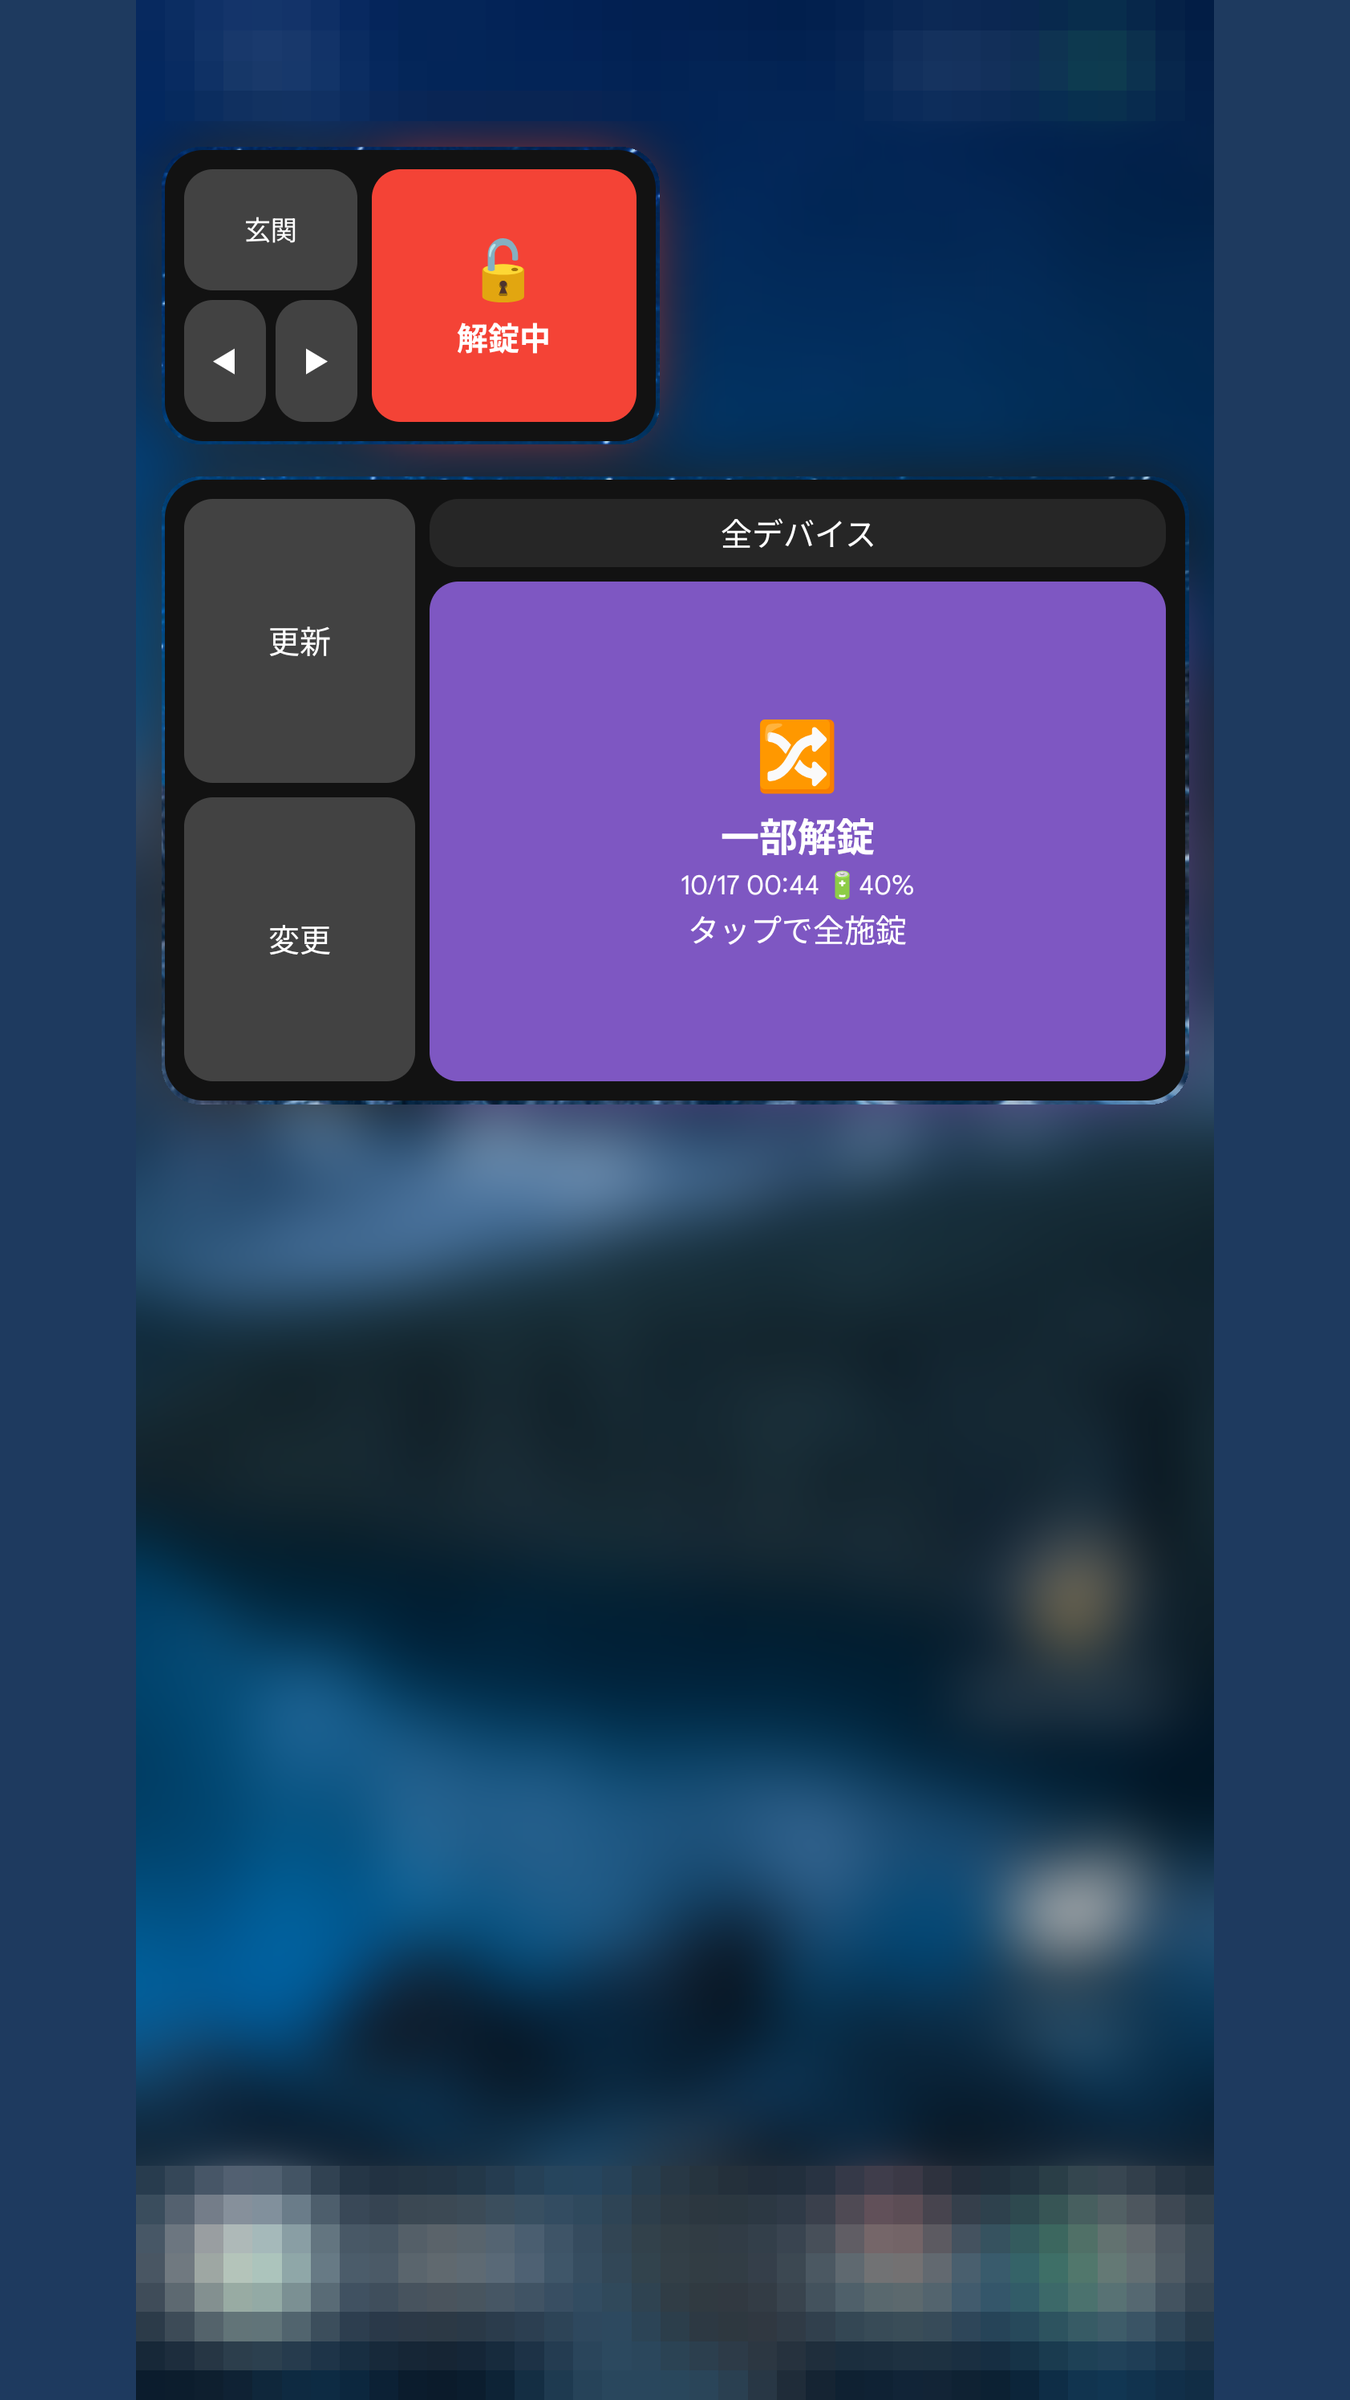
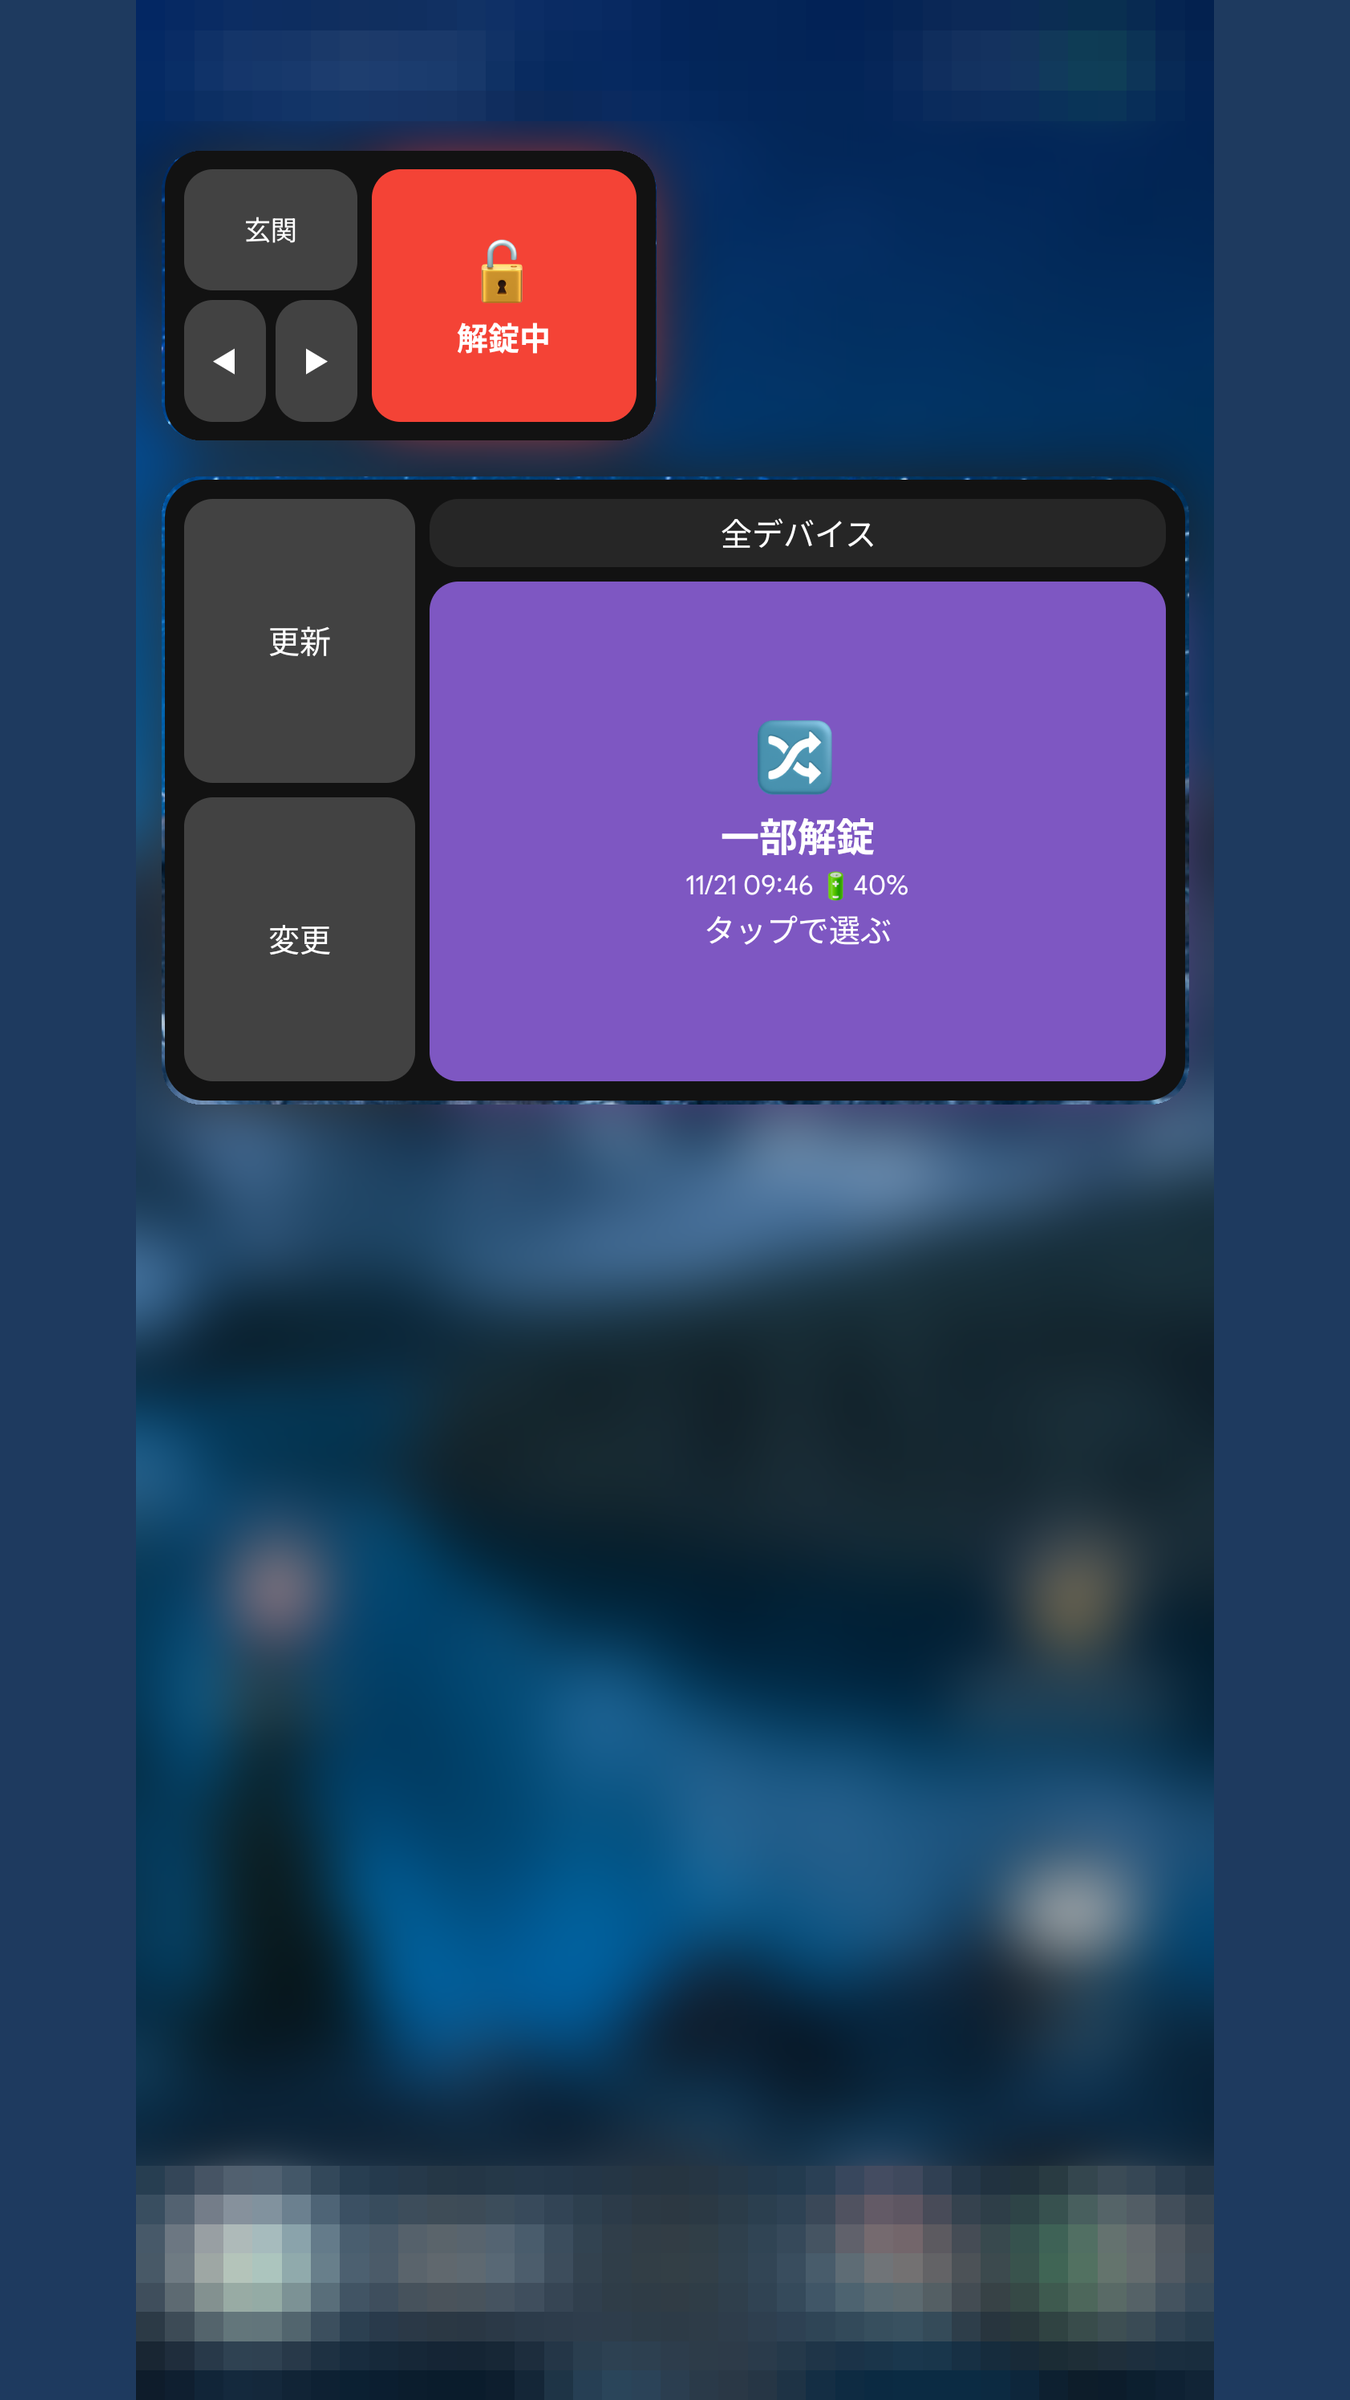
docs: 📝 ストア掲載画像を施錠・解錠を選ぶ画面に合わせて実機で撮り直す
BL-295で変わった画面に合わせ、Pixel 8 Pro / Pixel Watch 2実機（撮影モード）で
phone_1〜phone_4・wear_2・wear_4・wear_5を撮り直し、操作専用タイルの
wear_10_control_panelを追加した。説明文入りの画像とウィジェットのプレビュー画像を
作り直し、docs/storeの説明と旧称「解錠確認」を直した。Wear OS用は上限8枚に合わせて
wear_9_radar_allをPlay Consoleへ投入しない。

関連: BL-296

Claude-Session: https://claude.ai/code/session_01WnqNbZ6ebvCGnSnCY76eMN

diff --git a/scripts/caption-screenshots.py b/scripts/caption-screenshots.py
@@ -37,10 +37,10 @@ SIDE_MARGIN = 60
 
 # 半角空白は改行してよい位置。表示では空白で2行に分ける。
 CAPTIONS = {
-    "phone_1_widget_locked.png": "ホーム画面から すぐに施錠・解錠",
-    "phone_2_widget_unlock_confirm.png": "解錠は確認してから実行",
+    "phone_1_widget_locked.png": "ホーム画面から 施錠・解錠",
+    "phone_2_widget_unlock_confirm.png": "施錠か解錠かを 選んでから実行",
     "phone_3_widget_unlocked.png": "1台ずつ・全台まとめて 状態がひと目で分かる",
-    "phone_4_device_list.png": "セサミごとの状態と 電池を一覧で確認",
+    "phone_4_device_list.png": "セサミごとの状態を確認して アプリから施錠・解錠",
     "phone_5_menu.png": "操作の経路や通知を設定",
     "phone_6_radar.png": "Bluetoothの届き具合を レーダーで確認",
     "phone_7_radar_all.png": "全台の接続をまとめて確認",

diff --git a/docs/store/STORE_LISTING.md b/docs/store/STORE_LISTING.md
@@ -138,26 +138,27 @@ Markdownを解釈しないため、転記時は見出し・箇条書きの記法
 
 ## スクリーンショット
 
-スマートフォン用8枚とWear OS用8枚（上限に合わせ `wear_3_tile_unlocked` を外した欠番あり）を [images/screenshots/](images/screenshots/) に用意済みです。
+スマートフォン用8枚とWear OS用9枚（Play Consoleへ投入するのは8枚。上限に合わせ `wear_3_tile_unlocked` を外した欠番があり、
+`wear_9_radar_all` は投入しない）を [images/screenshots/](images/screenshots/) に用意済みです。
 内訳と加工内容は [README.md](README.md)「ファイル一覧」を参照してください。
 Play Consoleのスマートフォン用の枠へ投入するのは、機能の説明文を入れた
 [images/screenshots_captioned/](images/screenshots_captioned/) の8枚です（元画像の `images/screenshots/phone_*` は
 紹介ページとウィジェットのプレビュー画像の元として残します。説明文の一覧と作り直しは README.md「説明文入りの画像」）。
 
-- スマートフォン用: `phone_4_device_list` / `phone_5_menu` は0.16.0の表示で2026-11-08に撮り直し、
-  `phone_6_radar` / `phone_7_radar_all`（Bluetooth接続の確認）を追加しました（8枚上限のため旧 `phone_6` / `phone_7` と入れ替え。
-  BL-284）。残る4枚は0.14.3の表示です。
-- スマートフォン用: 撮影はいずれも0.14.3の表示でPixel 8 Pro実機（デバッグ版の撮影モード）を使って撮影しています
-  （2026-10-17。ステータスバーはモザイク、ホーム画面の3枚はドックもモザイクにし壁紙はぼかし）。
-  0.14.3でダイヤル操作の画面（`phone_8_dial.png`）を加えました。
-- Wear OS用: `wear_7_radar` / `wear_8_radar_connected` / `wear_9_radar_all`（接続確認）は0.16.0の表示で2026-11-08にPixel Watch 2実機で撮影しました。
-  タイル3枚とデバイス選択は0.14.0の表示でPixel Watch 2実機を使って撮影しています
-  （2026-09-25）。解錠確認は表示が変わっていないため据え置き、コンプリケーションは2026-09-06撮影の
+- スマートフォン用: `phone_1`〜`phone_4`（ウィジェット2枚・施錠・解錠を選ぶ画面・主画面）は0.17.0の表示で
+  2026-11-21にPixel 8 Pro実機で撮り直しました（BL-296）。`phone_5_menu` は0.16.0の表示（2026-11-08）、
+  `phone_6_radar` / `phone_7_radar_all`（Bluetooth接続の確認）は0.16.0の表示で2026-11-08に追加（BL-284）、
+  `phone_8_dial` は0.14.3の表示（2026-10-17）です。いずれもデバッグ版の撮影モードで撮り、ステータスバーはモザイク、
+  ホーム画面の3枚はドックもモザイクにし壁紙はぼかしています。
+- Wear OS用: タイル2枚（`wear_2` / `wear_4`）と施錠・解錠を選ぶ画面（`wear_5`）は0.17.0の表示で2026-11-21に
+  Pixel Watch 2実機で撮り直し、操作専用タイル「Sesami 操作パネル」（`wear_10_control_panel`）を追加しました（BL-296）。
+  `wear_7_radar` / `wear_8_radar_connected` / `wear_9_radar_all`（接続確認）は0.16.0の表示（2026-11-08）、
+  デバイス選択（`wear_6`）は0.14.0の表示（2026-09-25）、コンプリケーションは2026-09-06撮影の
   ままです（撮影時の文字盤が手元に無いため）。
 
 0.15.0ではウォッチのアプリの一覧・ウィジェットの配置画面の表示が加わりましたが、掲載画像は撮り直していません
 （既存の画像と矛盾せず、掲載文の機能説明で足りるため。必要になったら `store-screenshot-capture` で追加します）。
 
-**0.14.3の配信時に、Play Consoleのスマートフォン用の枠の画像を差し替えてください**
-（リポジトリの画像を更新しただけでは掲載は変わりません）。差し替えるのは `phone_1`〜`phone_8` の全8枚
-（`phone_8` は追加）です。Wear OS用の枠は変わりません。
+**0.17.0の配信時に、Play Consoleの画像を差し替えてください**
+（リポジトリの画像を更新しただけでは掲載は変わりません）。スマートフォン用の枠は説明文入りの `phone_1`〜`phone_4`、
+Wear OS用の枠は `wear_2` / `wear_4` / `wear_5` を差し替え、`wear_9_radar_all` を外して `wear_10_control_panel` を加えます。

diff --git a/docs/records/managed/BACKLOG.md b/docs/records/managed/BACKLOG.md
@@ -56,33 +56,6 @@
     `SesameActionCommandParser`）まで。画面の見え方・スワイプで戻る動作は実機でしか確かめられない。
   依存: []
 
-- id: BL-296
-  区分: 品質ゲート
-  タスク内容: >-
-    BL-295前半で文言・画面が変わったため、Google Playのストア掲載画像を撮り直す。対象は
-    `phone_4_device_list`（アプリ主画面のカードに「施錠」「解錠」ボタンが増えた。BL-295後半）、
-    `phone_2_widget_unlock_confirm`（スマホの解錠確認画面が、［キャンセル｜施錠｜解錠］の選ぶ画面になった）、
-    `wear_5_unlock_confirm`（ウォッチの確認画面が、施錠・解錠の2ボタンの選ぶ画面になった）、
-    `wear_4_tile_mixed`（一部解錠のタイルの操作文言が「タップで全施錠」から「タップで選ぶ」になった）。
-    施錠中・全施錠中のタイルやウィジェットの画像（`wear_2_tile_locked`、`phone_1_widget_locked`など）にも
-    「タップで解錠」「タップで全解錠」の文言が写っているため、あわせて確認する（`docs/store/README.md`の一覧）。
-    BL-298で追加した操作専用タイル（「Sesami 操作パネル」。実機の見え方はBL-297の確認後）の画像も追加する
-    （2台前後の状態で、上の「全施錠」「全解錠」と台ごとの行が写るもの。`docs/store/README.md`へ一覧を足す）。
-    撮影はこれまでどおり実機（Pixel 8 Pro / Pixel Watch 2）で行い（2026-11-21 ユーザー指示。エミュレータは使わない）、
-    スマホの画像は Skill `store-screenshot-masking` で加工する。`docs/store/README.md`の説明も追随させる。
-    撮り直しと同時に、旧称「解錠確認」「確認画面」が残る記述も選ぶ画面の呼び方へ直す（掲載文の変更は撮り直しと同時に行い、
-    それまでは本文を変えない）: `docs/store/README.md`の画像の説明（`phone_2_widget_unlock_confirm`・`wear_5_unlock_confirm`の
-    行）と`docs/store/STORE_LISTING.md`155行目付近の「解錠確認」。
-  優先度: P3
-  状態: 未着手
-  担当: AIエージェント
-  完了条件: >-
-    ストア掲載画像のうち、旧文言・旧画面が写るものが撮り直されていること。`docs/store/README.md`の説明が実際の画像と
-    合っていること。Play Consoleへの掲載画像の差し替えはユーザーが行う
-  根拠: >-
-    BL-295前半の変更で画像の内容が現行のアプリと食い違うため（ユーザー指示で撮影は今回しない）。
-  依存: []
-
 - id: BL-294
   区分: 人手検証
   タスク内容: >-

diff --git a/CHANGELOG.md b/CHANGELOG.md
@@ -7,6 +7,24 @@
 - コード修正1件ごとの実施記録: [docs/records/managed/EXECUTE.md](docs/records/managed/EXECUTE.md)
 - 本ファイル: 上記以外（運用ルール、ドキュメント構成、ガードレールの変更）
 
+## 2026-11-21（ストア掲載画像を施錠・解錠を選ぶ画面に合わせて撮り直し）
+
+施錠・解錠を選ぶ画面（BL-295）と主画面のカードのボタンで表示が変わったため、Google Playの掲載画像を
+Pixel 8 Pro / Pixel Watch 2実機（デバッグ版の撮影モード）で撮り直しました（BL-296。BACKLOGから削除）。
+
+- `docs/store/images/screenshots/`: `phone_1`〜`phone_4`、`wear_2` / `wear_4` / `wear_5` を撮り直し、
+  操作専用タイルの `wear_10_control_panel.png` を追加。スマートフォン用はステータスバーとドックをモザイクにし、
+  壁紙はぼかした（Skill `store-screenshot-masking`）
+- `docs/store/images/screenshots_captioned/`: `scripts/caption-screenshots.py` の説明文のうち `phone_1`
+  （「ホーム画面から 施錠・解錠」）・`phone_2`（「施錠か解錠かを 選んでから実行」）・`phone_4`
+  （「セサミごとの状態を確認して アプリから施錠・解錠」）を画面に合わせて直し、作り直した。
+  Wear OS用は2026-11-19の決定どおり説明文を入れない（2026-11-21にユーザーが再確認）
+- `mobile/src/main/res/drawable-nodpi/widget_preview*.png`: `phone_1` の差し替えに合わせて作り直した
+- `docs/store/README.md` / `docs/store/STORE_LISTING.md`: 画像の説明を実際の画像に合わせ、旧称「解錠確認」を
+  選ぶ画面の呼び方へ直した。Wear OS用は9枚になったため、上限（8枚）に合わせて `wear_9_radar_all` をPlay Consoleへ
+  投入しないことにした（接続確認は `wear_7` / `wear_8` で伝わるため。既定として選んだもので、変える場合はユーザーが判断する）
+- 撮影中に見つけた選ぶ画面の「キャンセル」の折り返しは、BL-301として別のコミットで直した
+
 ## 2026-11-21（Sesame上流の定期調査をスキルとサブエージェントとして追加）
 
 Sesame公式の変更履歴・API_document・Android SDKの変更確認は今後も定期的に行うため、手順を残しました。
